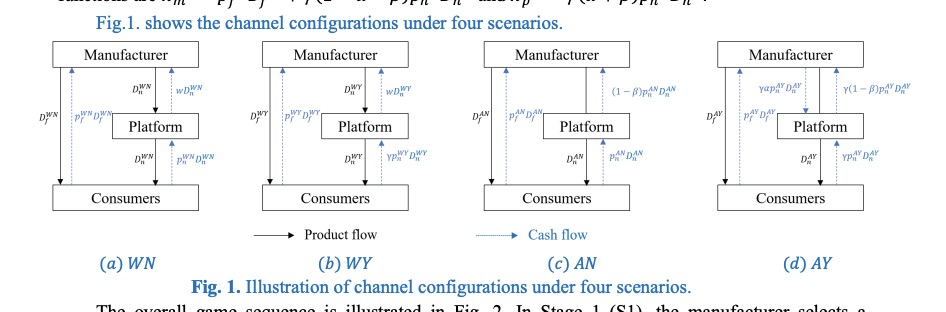
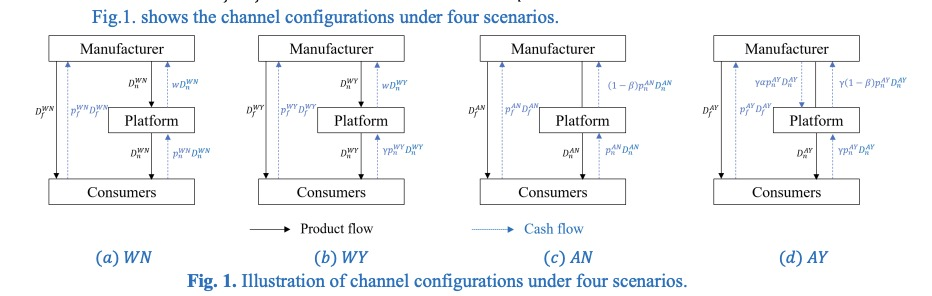
Update UGC research project pages

diff --git a/docs/projects/ugc-platform-reference-effect/research-details.md b/docs/projects/ugc-platform-reference-effect/research-details.md
@@ -12,7 +12,7 @@ Pure content helps attract and retain users, while shoppable content generates d
 
 ## Decision Scenarios
 
-![Comparison of static and dynamic UGC strategies](../../assets/images/ugccomparison.png){ width="100%" }
+![Comparison of static and dynamic UGC strategies](../../assets/images/ugccomparison.jpg){ width="100%" }
 
 *Figure 1. Reference quality, pure-content quality, and recommendation intensity under static and dynamic decisions.*
 
